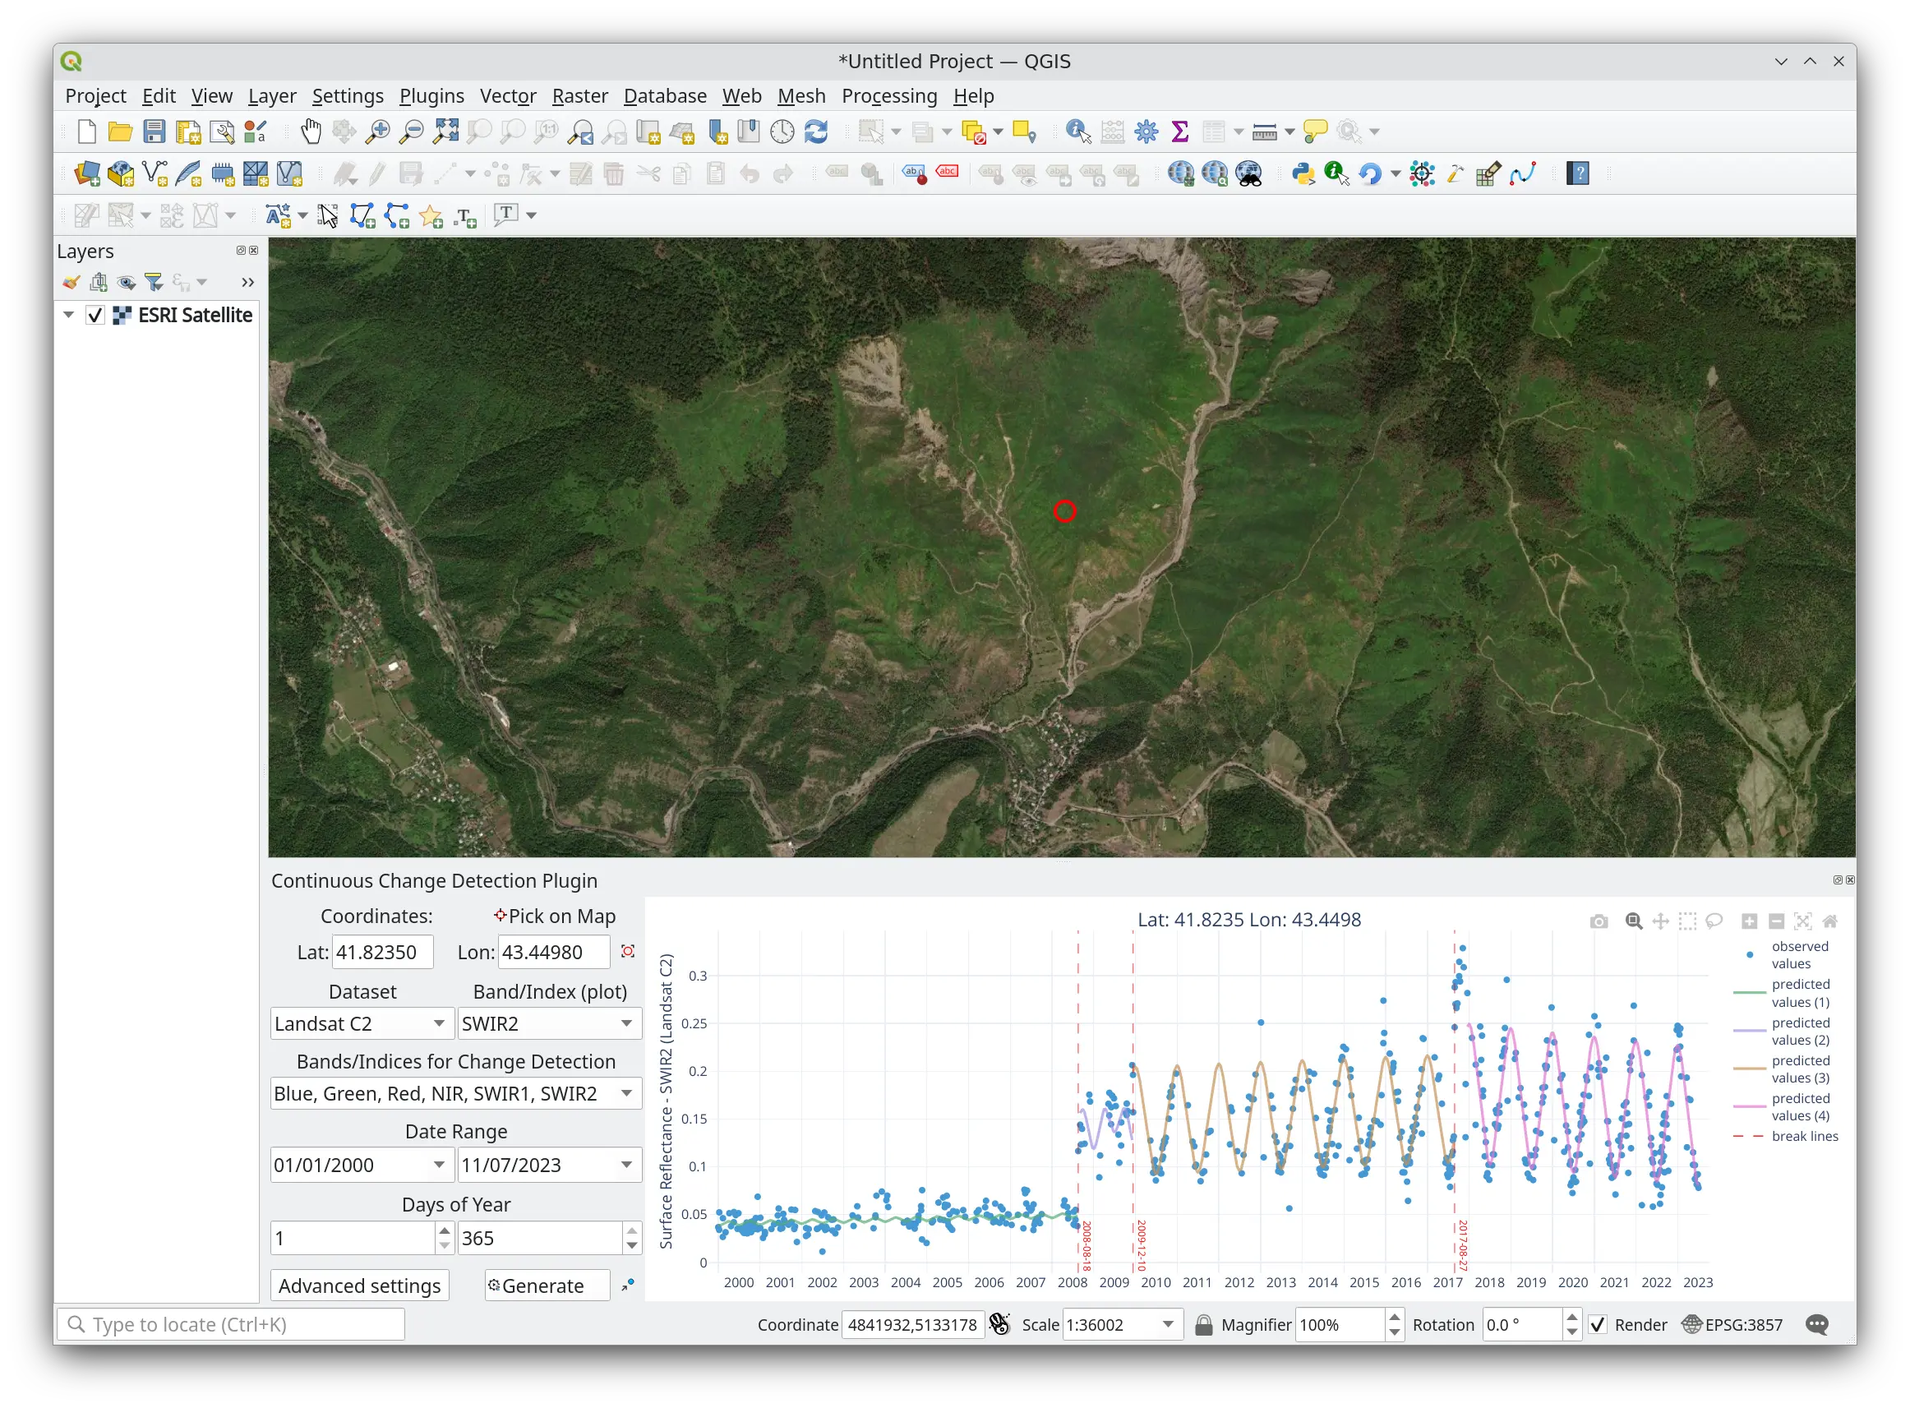
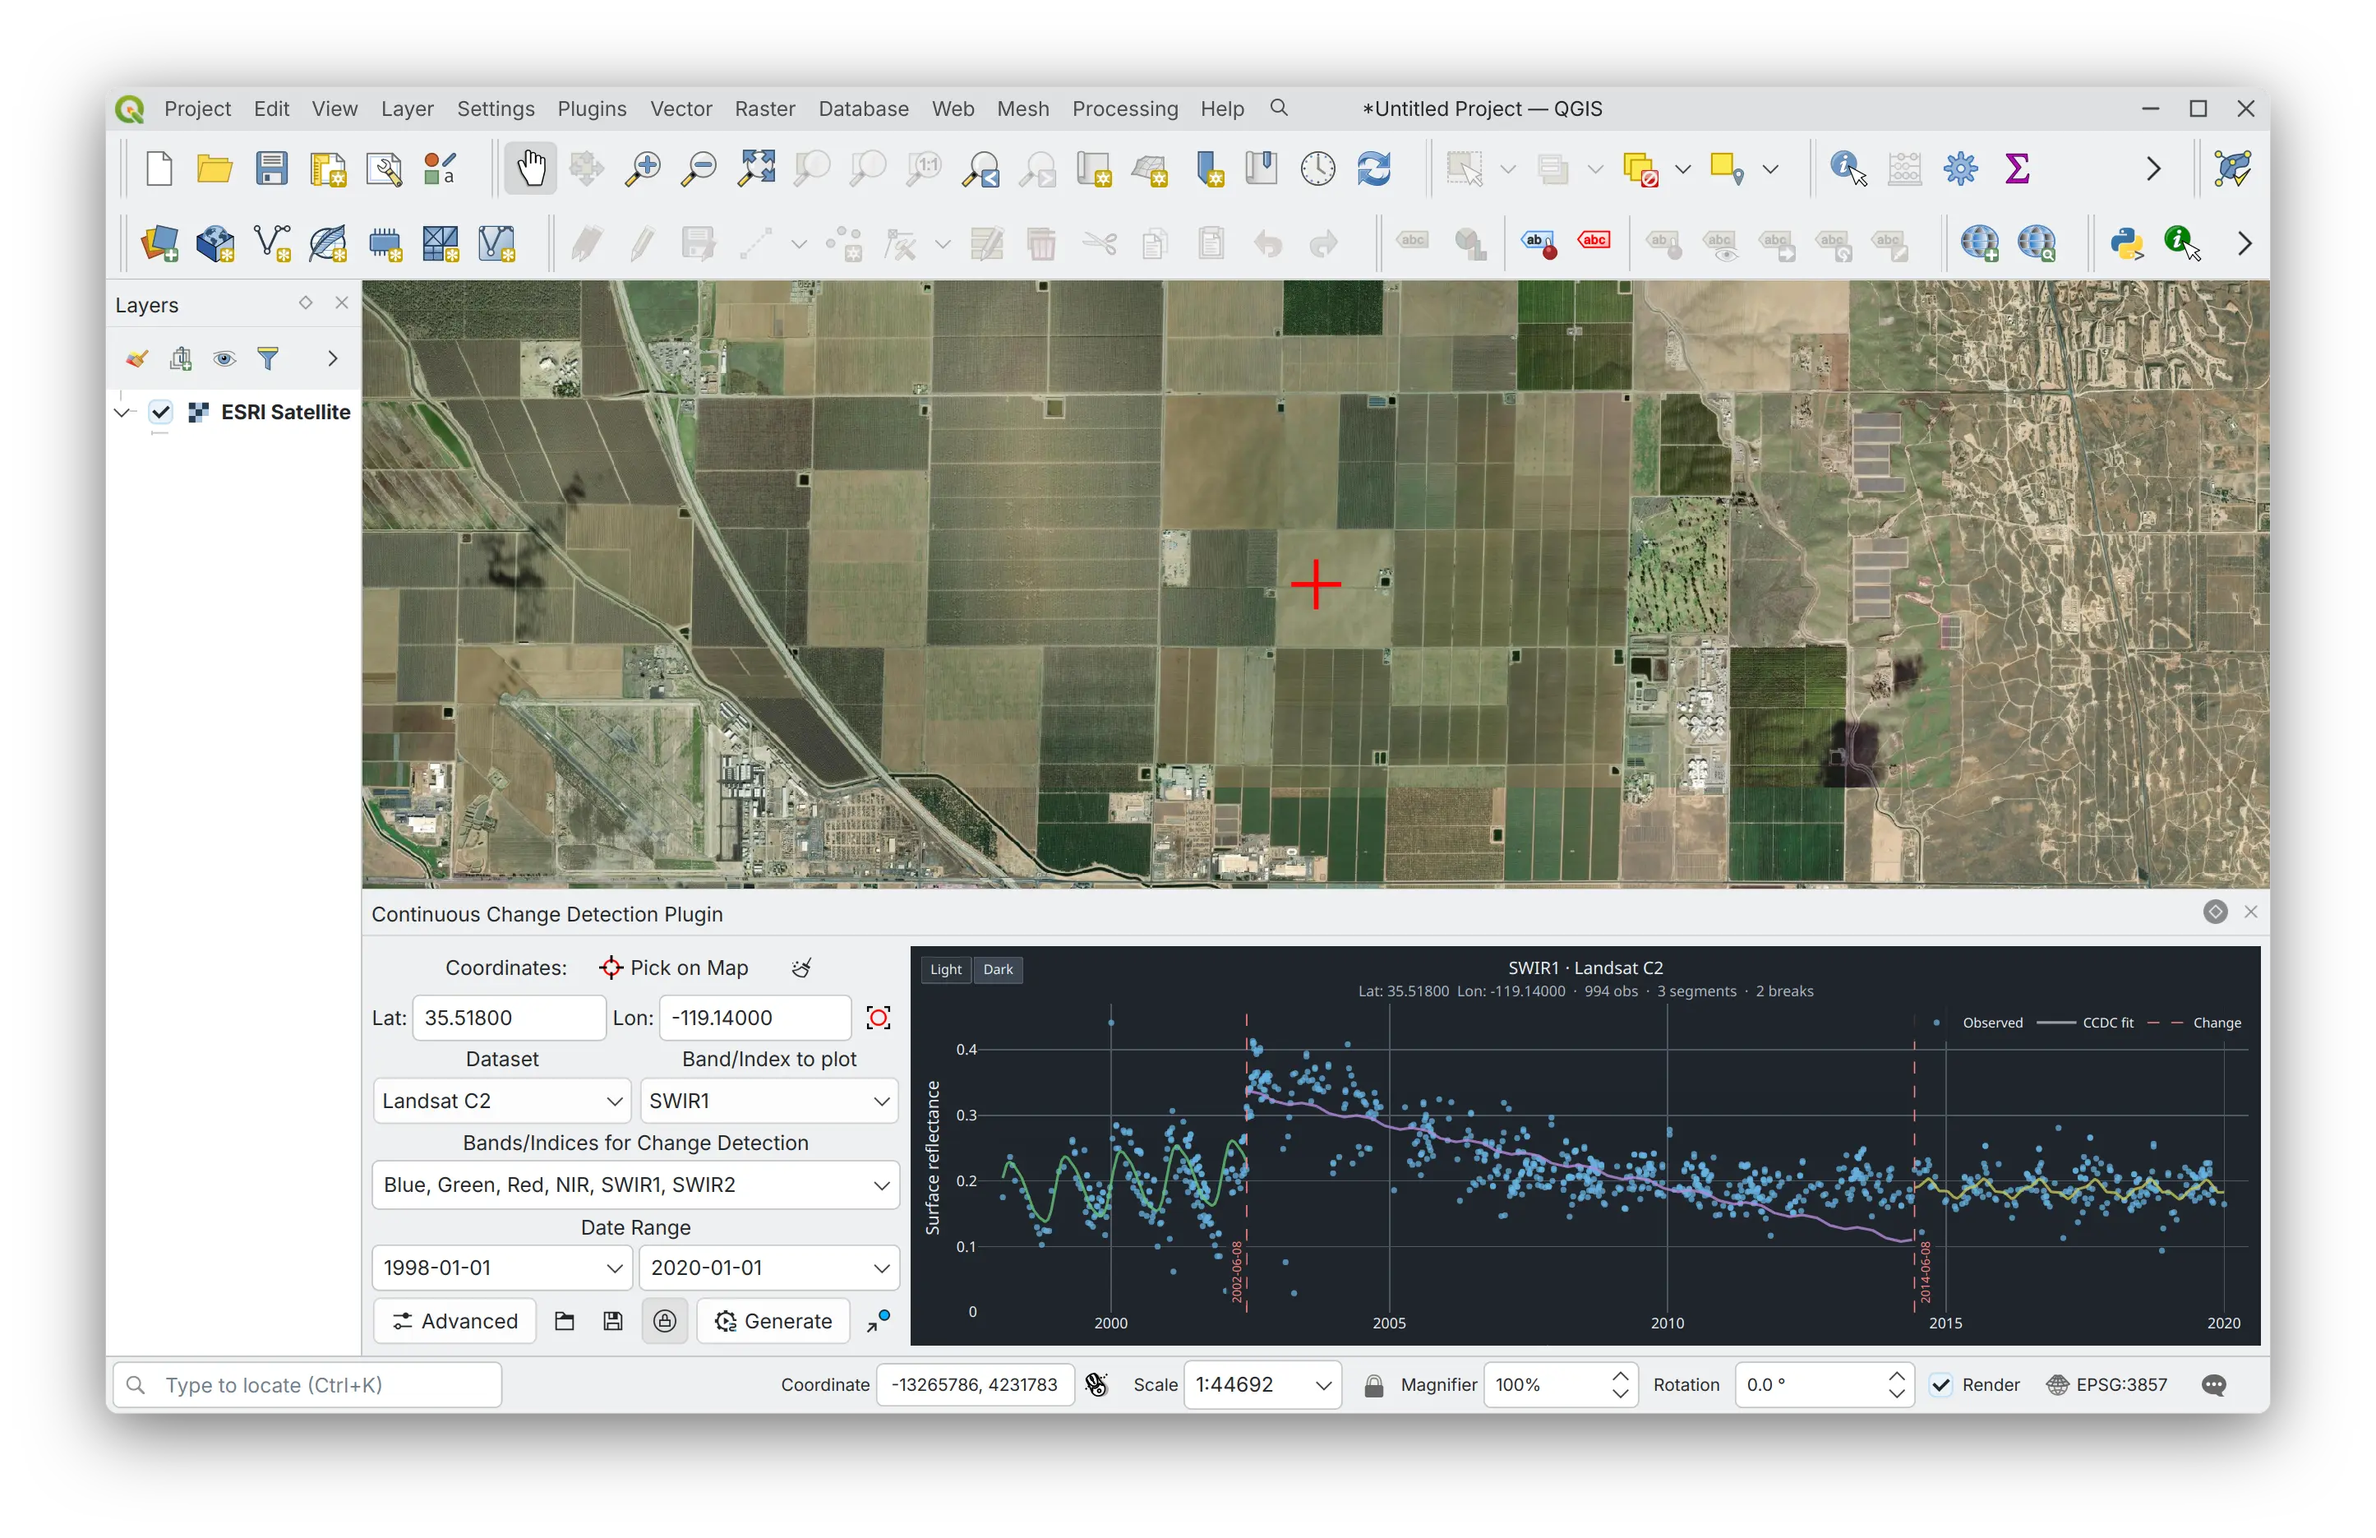
Document CCDC in the Readme and improve the UI tooltips
Explain the harmonic model, how a break is found, and that the LASSO fit
happens in Earth Engine. Add a usage walkthrough and how to read the plot.

Move the parameter guidance out of the Readme and into the tooltips, where
the controls are. Cover the three that had none, fix the dataset
availability dates, and give the parameter labels their field's tooltip.

diff --git a/Readme.md b/Readme.md
@@ -1,20 +1,95 @@
 # CCD-Plugin
 
-The CCD-Plugin uses Google Earth Engine to get Landsat or Sentinel2 datasets and run the Continuous Change Detection 
+The CCD-Plugin uses Google Earth Engine to get Landsat or Sentinel-2 datasets and run the Continuous Change Detection
 (CCDC) algorithm to analyze the trends and breakpoints of change over multi-year time series at a given coordinate.
 
 ![](screenshot.webp)
 
-The plugin uses Google Earth Engine (GEE) to retrieve data for the specified coordinates for all available Landsat 
-satellites, including 4, 5, 7, 8, and 9, from Collection 2, or the Harmonized Sentinel-2 collection. It applies a
-balanced cloud/shadow/snow mask plus CCDC's temporal TMask, keeping as many clear observations as possible. Then
-the plugin runs the Continuous Change Detection algorithm in Google Earth Engine to find temporal breakpoints of
-the image collection by iteratively fitting harmonic functions to the data.
+Pick a point on the map and the plugin pulls every clear observation for that pixel out of the Earth Engine
+catalog, hands the series to CCDC, and plots what comes back: the observations themselves, the model fitted to
+each stable period, and the dates where the series broke.
+
+It answers one question well: *what happened at this pixel, and when?* It is a point tool for looking at a time
+series, not a mapping tool; it does not classify or produce a change map.
+
+## How CCDC works
+
+CCDC ([Zhu & Woodcock, 2014](https://doi.org/10.1016/j.rse.2014.01.011)) treats a pixel's spectral history as a
+signal to be modelled rather than a stack of images to be compared. Instead of differencing two dates, or compositing
+by year and losing the seasons, it uses *every* clear observation as it arrives, which is what "continuous"
+means here, and asks whether each new one still agrees with the behaviour established so far.
+
+The full algorithm has two halves: temporal segmentation (finding the breaks) and classification (labelling what each
+segment is). The plugin runs the first half, through Earth Engine's
+[`ee.Algorithms.TemporalSegmentation.Ccdc`](https://developers.google.com/earth-engine/apidocs/ee-algorithms-temporalsegmentation-ccdc).
+
+### The model
+
+For each band it is given, CCDC fits by LASSO regression a harmonic model of time:
+
+```
+ρ(t) = a₀ + a₁·t + Σ (k = 1..3)  [ b_k·cos(2πkt/T) + c_k·sin(2πkt/T) ],   T = 1 year
+```
+
+That is eight coefficients per band, per segment, and they are worth reading as a description of the pixel:
+
+| Term | Coefficients | What it captures |
+|---|---|---|
+| Intercept | `a₀` | the overall reflectance level |
+| Slope | `a₁` | the long-term trend: gradual degradation, regrowth, drying |
+| 1st harmonic | `b₁, c₁` | the annual cycle: phenology, the wet/dry season |
+| 2nd, 3rd harmonics | `b₂, c₂, b₃, c₃` | the *shape* of that cycle: a double crop, a short sharp green-up |
+
+Each fit also carries an **RMSE**, the typical scatter of the observations around the curve. That number is what makes
+the algorithm self-calibrating: a noisy pixel is allowed noisy observations before anything counts as a change.
+
+### How a break is found
+
+Once a segment has a model, every new observation is predicted from it. The residual is divided by that band's RMSE,
+so it is measured in units of *this pixel's* normal variability, and the normalised residuals are combined across the
+breakpoint bands into a single statistic tested against a **chi-square** threshold.
+
+One anomalous observation proves nothing; it is far more likely an undetected cloud or shadow. A break is flagged
+only when **`Num Obs` consecutive** observations all fall outside the threshold. The break is dated at the first of
+them, that segment is closed, and once enough new observations accumulate a fresh model is fitted for what follows.
+
+This is also why the plugin can afford permissive per-image cloud masking: requiring consecutive anomalies makes
+isolated bad pixels harmless, and CCDC's own **TMask** screen catches the rest.
+
+### Segments
+
+A segment is one stable period: a start date, an end date, its eight coefficients per band, and its RMSE. The plot
+draws one curve per segment, each in its own colour, so consecutive fits read apart instead of looking like a single
+broken line. A break between two segments is a real change in how the pixel behaves. That is not necessarily
+deforestation, just a discontinuity the previous model could no longer explain.
+
+## Data
+
+### Datasets
+
+- **Landsat C2** (30 m): Collection 2 surface reflectance, Tier 1, from Landsat 4, 5, 7, 8 and 9.
+  1982 → present, with dense coverage from 1984.
+- **Sentinel-2** (10 m): the Harmonized L2A surface reflectance collection.
+  2017-03 → present, global only from late 2018.
+
+> Landsat Collection 1 was decommissioned by USGS and removed from the GEE data catalog, so it is no longer supported.
+
+Both are exposed to CCDC through the same band schema, so the algorithm, the cache and the plot are dataset-agnostic.
+The observations and the fitted model are sampled on the source image grid, not on a resampled one, so both come from
+exactly the pixel you clicked.
+
+### Bands and indices
+
+- **Bands:** Blue, Green, Red, NIR, SWIR1, SWIR2
+- **Indices:** NDVI, NBR, EVI, EVI2, BRIGHTNESS, GREENNESS, WETNESS
+
+The tasseled cap indices (BRIGHTNESS/GREENNESS/WETNESS) use per-sensor coefficients so that the Landsat sensors land
+in one common domain, which is what keeps the L5/L7/L8 transitions from registering as breaks.
 
 ### Cloud masking
 
 Landsat always uses the Collection 2 QA bands: CFmask (`QA_PIXEL`) for fill, cloud, dilated cloud, cloud shadow,
-snow and — on Landsat 8/9 only — cirrus; `QA_RADSAT` for saturation; and the per-sensor haze product
+snow and (on Landsat 8/9 only) cirrus; `QA_RADSAT` for saturation; and the per-sensor haze product
 (`SR_ATMOS_OPACITY` for TM/ETM+, `SR_QA_AEROSOL` for OLI/OLI-2). The cloud *confidence* bits are deliberately
 not used, so low and medium confidence clear pixels are kept, and reflectance outside the valid range is dropped.
 The Landsat 7 SLC-off scan gaps are fill, so the QA fill bit already removes them.
@@ -28,44 +103,10 @@ For Sentinel-2 the mask is selectable in *Advanced settings*:
 | **Sen2Cor** | the L2A scene classification (`SCL`), dilated | When the SCL classes are known to work well for the area |
 | **No Mask** | nothing; CCDC's TMask alone screens the series | Very cloudy areas where any mask leaves too few observations |
 
-In every case the masks are per-pixel only — a scene is never dropped because the rest of the tile is cloudy,
+In every case the masks are per-pixel only: a scene is never dropped because the rest of the tile is cloudy,
 since only the pixel at the requested coordinate matters.
 
-### Availability of dataset collections (GEE)
-
-- **Landsat C2** (30m resolution): 1982 → present (dense coverage from 1984)
-- **Sentinel-2** (10m resolution): 2017-03 → present (global only from late 2018)
-
-> Landsat Collection 1 was decommissioned by USGS and removed from the GEE data catalog, so it is no longer supported.
-
-
-### Time series / change detection
-
-The sub-datasets to visualize and compute the CCDC algorithm and its breakpoints are:
-
-- **Bands:** Blue, Green, Red, NIR, SWIR1, SWIR2
-
-- **Indices:** NDVI, NBR, EVI, EVI2, BRIGHTNESS, GREENNESS, WETNESS
-
-### Change detection defaults
-
-| Setting | Default | Why |
-|---|---|---|
-| Breakpoint bands | Green, Red, NIR, SWIR1, SWIR2 | Blue is excluded: it carries the most residual haze/aerosol signal and is a known source of false breaks. Matches Zhu & Woodcock (2014), gee-ccdc-tools and SEPAL |
-| TMask bands | Green, SWIR1 | Cloud is bright in green, shadow and snow dark in SWIR1. Earth Engine requires these to also be breakpoint bands, so they are added automatically if you deselect them |
-| Num Obs | 6 | Consecutive observations needed to confirm a change (useful range 4–8) |
-| Chi-square | 0.99 | Raise towards 0.999 for fewer, more certain breaks |
-| Min Years | 1.33 | Minimum segment length, in years |
-| Lambda | 0.002 | The standard CCDC lambda of 20, rescaled for 0–1 surface reflectance |
-
-> **Confirmed breaks vs. changes in progress.** CCDC reports a `changeProb` per segment. A break is
-> only *confirmed* once `changeProb` reaches 1, meaning the full `Num Obs` consecutive observations
-> exceeded the threshold. When a series ends while a change is still accumulating, CCDC still
-> reports a break date but with a fractional probability (e.g. 1/6 ≈ 17%). The plot draws confirmed
-> breaks as red dashed lines and unconfirmed ones as fainter orange dotted lines labelled with
-> their probability — an orange line is *not* a detected change.
-
-### References
+## References
 
 - Zhu, Z., & Woodcock, C. E. (2014). Continuous change detection and classification of land cover using all available Landsat data. Remote sensing of Environment, 144, 152-171. https://doi.org/10.1016/j.rse.2014.01.011
 
@@ -91,20 +132,10 @@ Each numeric GitHub release includes `extlibs.zip`, built with the latest compat
 `requirements.txt`. If automatic installation is not available, download that asset from the release matching the
 plugin version and extract its contents into an `extlibs` directory inside `CCD_Plugin`.
 
-Release packages are built with `qgis-plugin-ci` from a staged `CCD_Plugin/` directory. The stage keeps the tracked
-Qt 6 `resources.py` and omits `resources.qrc`, tests, development files, and generated build artifacts so the archive
-contains one installable plugin directory without a generated `resources_rc.py` replacement.
-
-Plots are written as self-contained HTML pages with Plotly embedded. They render offline in Qt WebEngine without CDN
-or sibling JavaScript assets, and local pages are not allowed to access remote or other local content.
-
 ### Known issues
 
 > **Download plot as a png:**
 > It is not working inside the plugin, but it works when the plot is opened in a web browser
-
-> **Linux with Wayland:**
-> The functionality of open the current plot in a web browser may not work propertly
 
 ## About us
 
